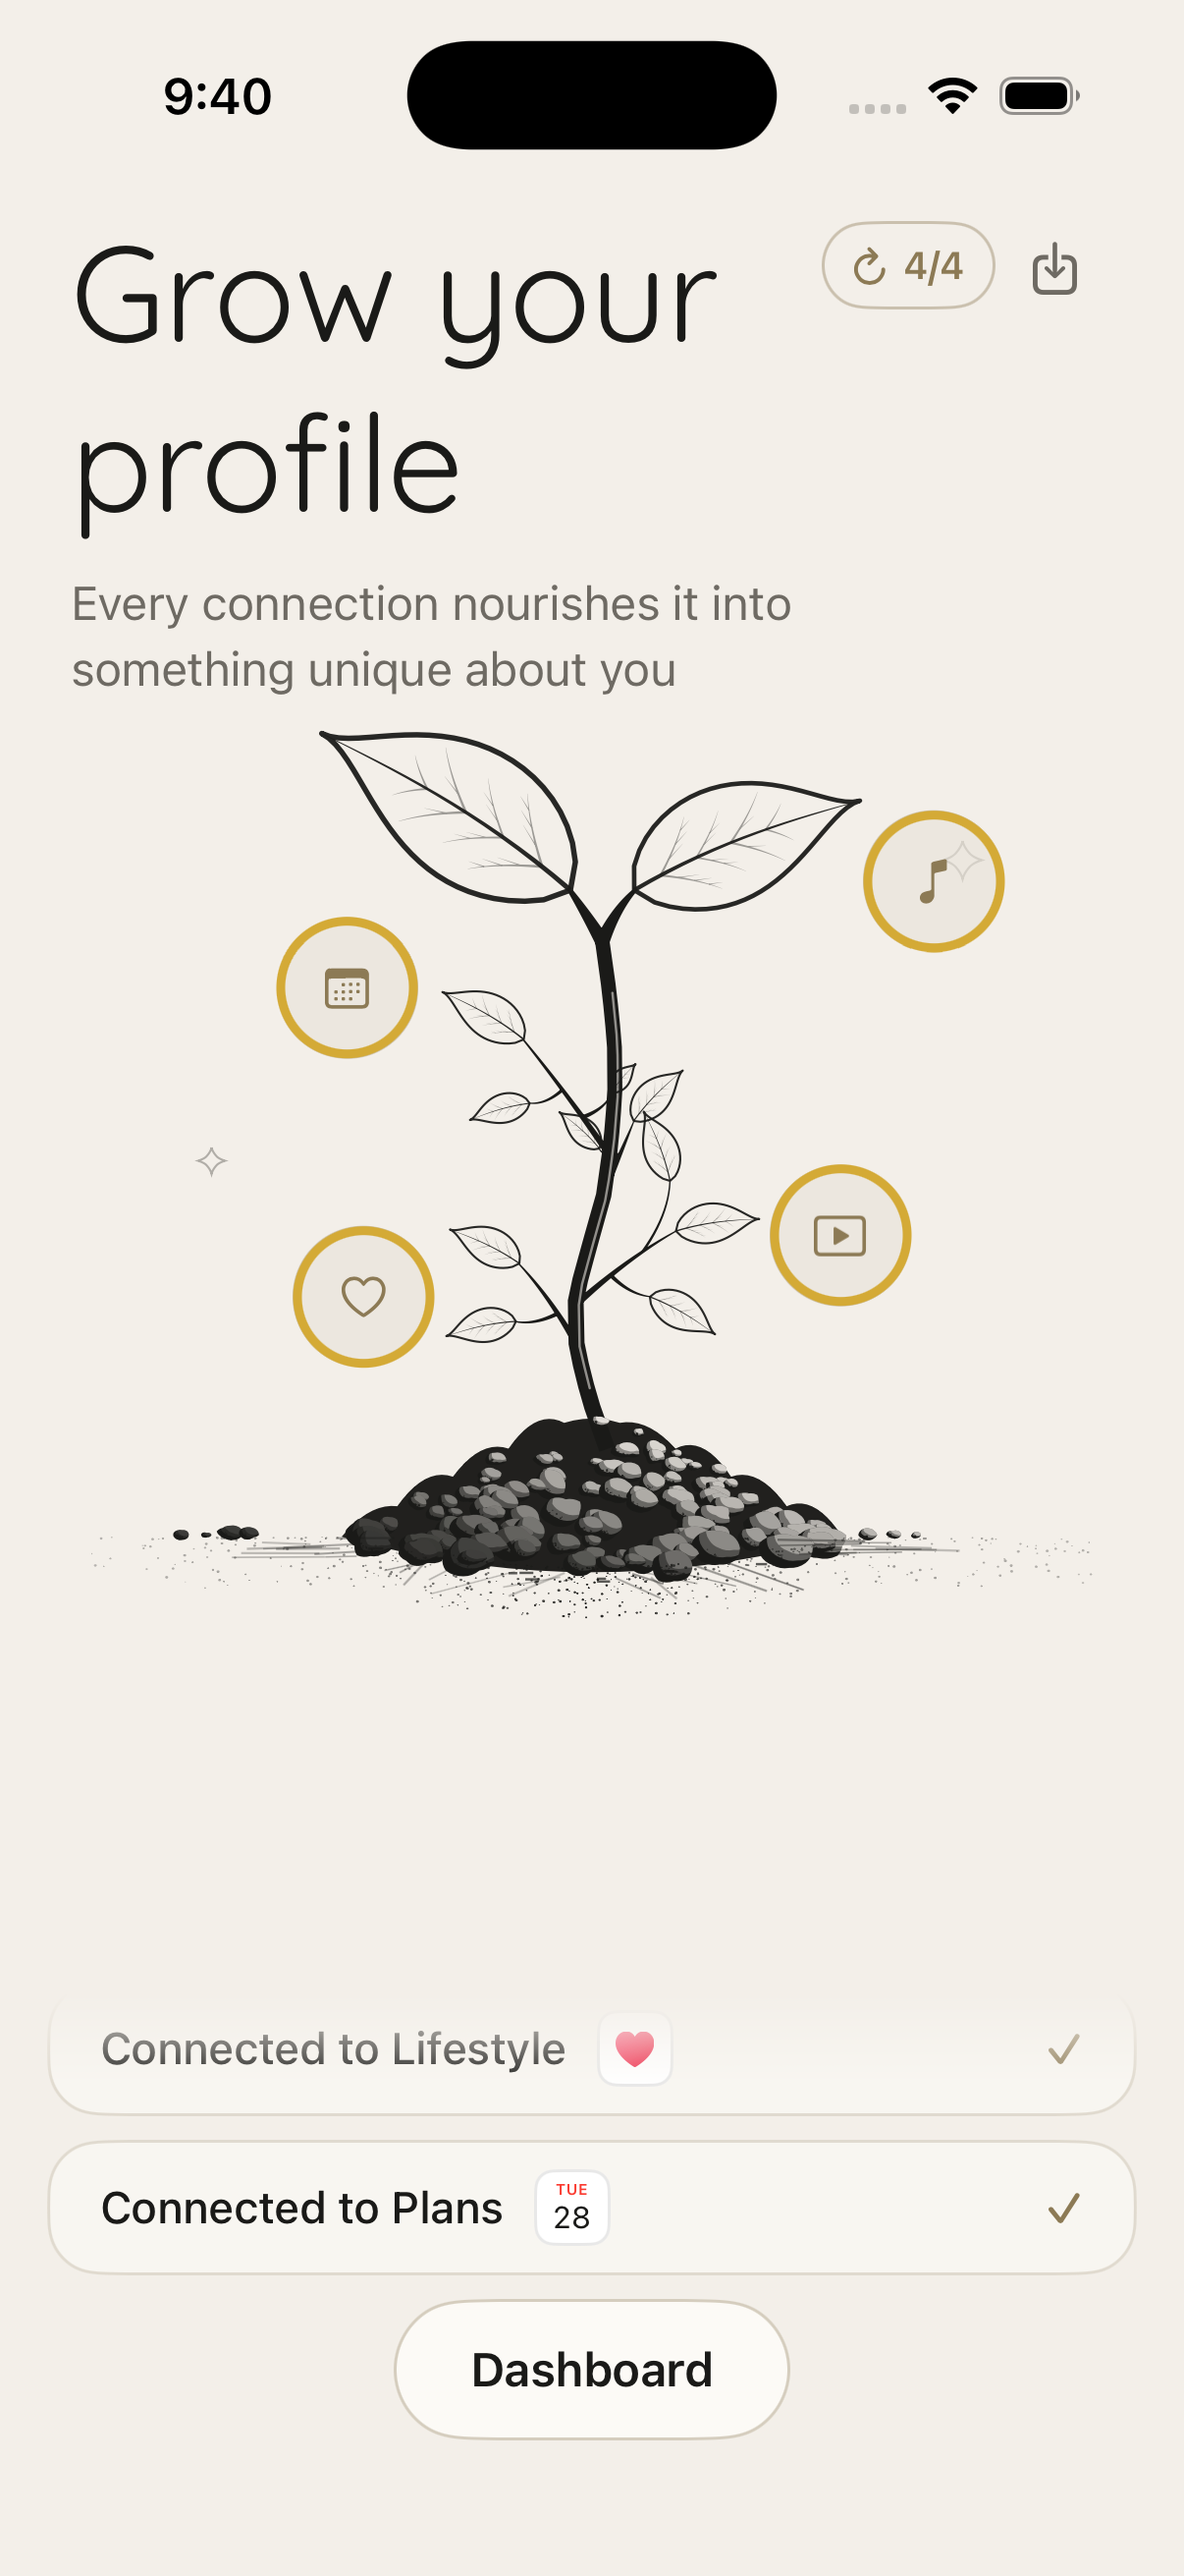
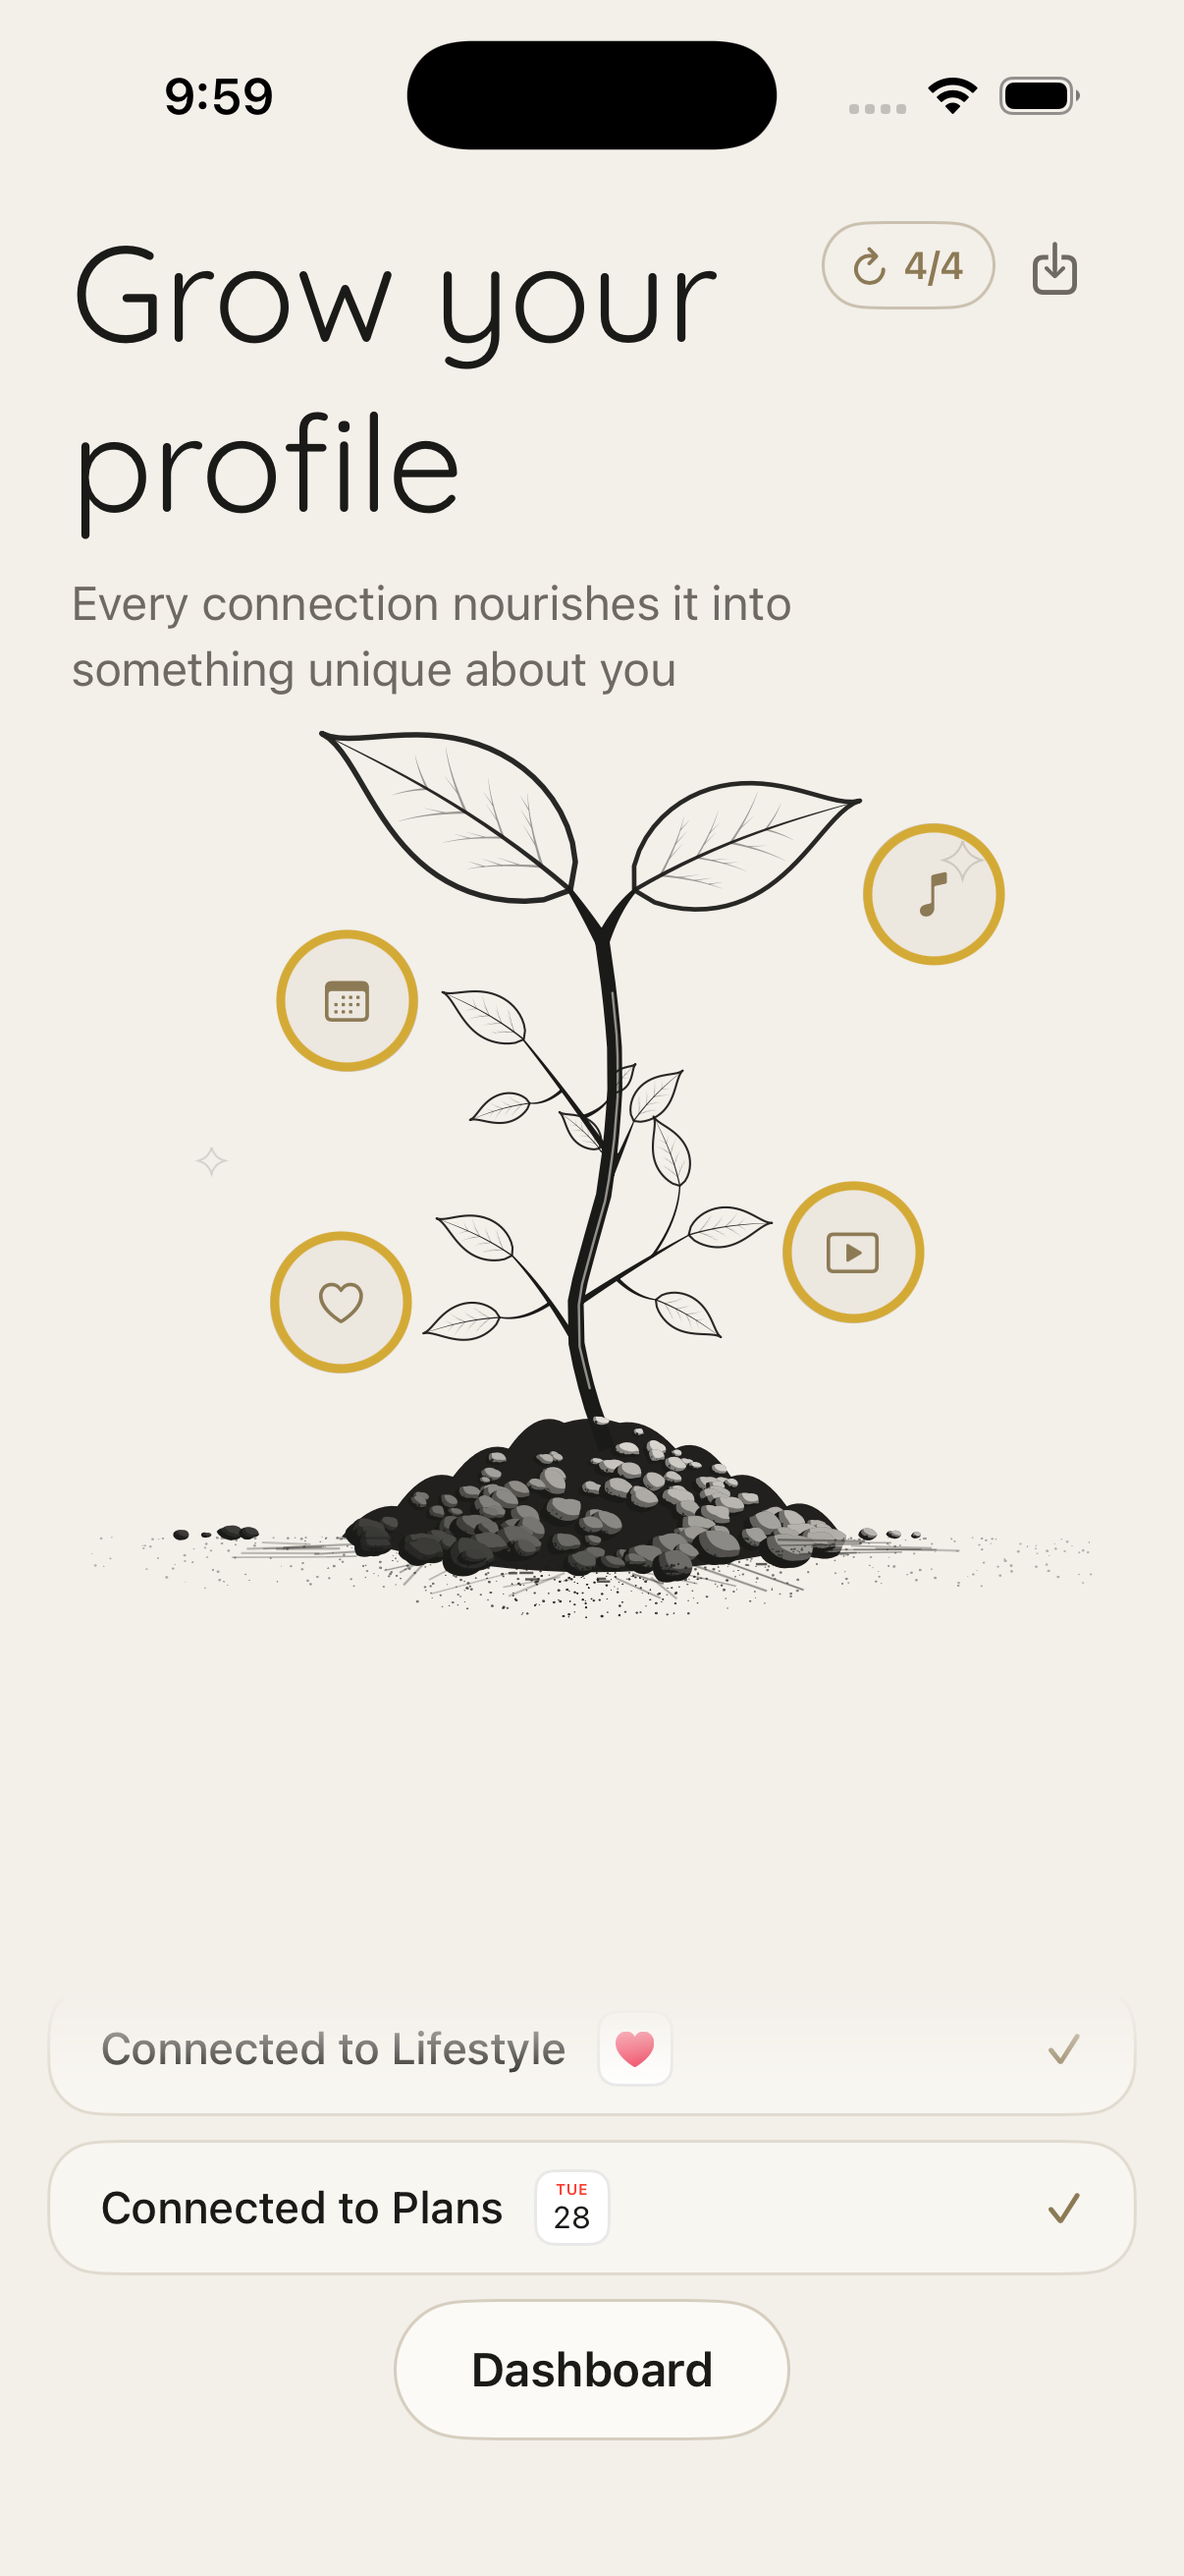
Give the canopy its own branches, and adjust L1 and R1
L1 and R1 are drawn from stages 2 and 1 and reused at the canopy, so
editing them edits those stages. Every canopy change so far has been
gated by hand instead — opensAt on a leaflet, a weight on the taper,
another on the lean — and two of those gates were missed, each found only
by diffing renders against a build from before the work began. These four
branches are going to be adjusted many times, so the canopy gets its own
copy of them and an adjustment can no longer reach an earlier stage even
by accident.

canopyShoots holds the same four in the same order with the same leaflet
counts, because SeedlingView keys its per-leaflet animation state off
indices into shoots — a different shape there would misalign silently
rather than fail. The set is eased in over the last stage rather than
swapped at a threshold, which would pop every branch the instant a fourth
source connected.

L1: the split now happens later along the rachis, 0.34 to 0.42, so the
bifurcation sits further from the stem. Its lower leaf grows 0.22 to 0.24
and its stalk runs further left and a touch down; the upper leaf grows
0.24 to 0.26 and is carried up and left by a longer rachis, since it is
terminal and sits at the tip.

R1: rachis 0.068 to 0.080 and nothing else. Lengthening it carries the
branch point and both leaves out together, which is what moving the whole
branch right means.

Stages 1, 2 and 3 differ by 2, 1 and 0 pixels of ink. Stage 1 and 2 are
[…]

diff --git a/Written/Views/Tree/SeedlingArt.swift b/Written/Views/Tree/SeedlingArt.swift
@@ -383,6 +383,24 @@ enum SeedlingArt {
         var closesAt: SeedlingStage? = nil
 
         var hasSubPetiole: Bool { stalkRun != .zero }
+
+        /// Part-way toward another leaflet. `mirrored` and the stage window are
+        /// taken from self — which side of the rachis a leaf is on, and whether
+        /// it is drawn at all, are not quantities to interpolate.
+        func blended(toward other: Leaflet, by t: CGFloat) -> Leaflet {
+            Leaflet(
+                mirrored: mirrored,
+                axis: axis + (other.axis - axis) * Double(t),
+                scale: scale + (other.scale - scale) * t,
+                along: along + (other.along - along) * t,
+                stalkRun: CGSize(
+                    width: stalkRun.width + (other.stalkRun.width - stalkRun.width) * t,
+                    height: stalkRun.height + (other.stalkRun.height - stalkRun.height) * t
+                ),
+                opensAt: opensAt,
+                closesAt: closesAt
+            )
+        }
     }
 
     /// A shoot off the side of the stem, and the stage it first appears at.
@@ -405,6 +423,27 @@ enum SeedlingArt {
         /// The leaflet the rachis runs into, so that stem, stalk and midrib are
         /// one line — the rachis' end tangent is aimed along this one's axis.
         var carrier: Leaflet { leaflets.first { !$0.hasSubPetiole } ?? leaflets[0] }
+
+        /// This shoot part-way toward another, for growing into the canopy's
+        /// version of itself instead of snapping to it.
+        ///
+        /// `stage` and `id` are taken from self: they say *when* a shoot exists
+        /// and which animation state belongs to it, and blending either would be
+        /// meaningless. `opensAt` and `closesAt` likewise — a leaflet is drawn
+        /// or it is not.
+        func blended(toward other: Shoot, by t: CGFloat) -> Shoot {
+            Shoot(
+                id: id,
+                stage: stage,
+                attachment: attachment + (other.attachment - attachment) * t,
+                reach: CGSize(
+                    width: reach.width + (other.reach.width - reach.width) * t,
+                    height: reach.height + (other.reach.height - reach.height) * t
+                ),
+                turn: turn + (other.turn - turn) * Double(t),
+                leaflets: zip(leaflets, other.leaflets).map { $0.blended(toward: $1, by: t) }
+            )
+        }
     }
 
     /// Degrees the spine sweeps toward its own side over the blade's length. A
@@ -562,10 +601,69 @@ enum SeedlingArt {
         )
     ]
 
+    /// The same four branches as the canopy draws them.
+    ///
+    /// A separate copy rather than canopy-only overrides on the shared ones, and
+    /// the reason is a track record: every canopy change so far has had to be
+    /// gated by hand — `opensAt` on a leaflet, a weight on the taper, another on
+    /// the lean — and two of those gates were missed, each found only by
+    /// diffing renders against a build from before the work began. These four
+    /// branches will be adjusted many times, and with a copy an adjustment
+    /// physically cannot reach stage 1, 2 or 3.
+    ///
+    /// **Same shape as `shoots`.** Same count, same leaflets per shoot, in the
+    /// same order — `SeedlingView` keys its per-leaflet animation state off
+    /// indices into `shoots`, so a different shape here would misalign them
+    /// rather than fail loudly.
+    static let canopyShoots: [Shoot] = [
+        // R1 — the right-hand branch, moved out from the stem. Only the rachis
+        // changes: lengthening it carries the branch point and both leaves out
+        // together, which is what "the whole branch further right" is.
+        Shoot(
+            id: 0,
+            stage: .shoot,
+            attachment: 0.52,
+            reach: CGSize(width: 0.080, height: 0.088),
+            turn: 18,
+            leaflets: shoots[0].leaflets
+        ),
+        // L1 — the left-hand lowest branch. Its split happens later along the
+        // rachis, and both leaves grow a little and move outward: the lower one
+        // left and down, the upper one up and left.
+        Shoot(
+            id: 1,
+            stage: .branch,
+            attachment: 0.34,
+            // Further left and a little higher, which carries the terminal leaf
+            // — the upper one — up and left with it, since it sits at the tip.
+            reach: CGSize(width: -0.058, height: 0.076),
+            turn: 0,
+            leaflets: [
+                Leaflet(mirrored: false, axis: -50, scale: 0.26, along: 1, stalkRun: .zero),
+                // `along` 0.34 to 0.42: further along the rachis is later, so
+                // the bifurcation happens further from the stem. The stalk runs
+                // further left and a touch further down.
+                Leaflet(mirrored: false, axis: -88, scale: 0.24, along: 0.42,
+                        stalkRun: CGSize(width: -0.046, height: 0.014))
+            ]
+        ),
+        shoots[2],
+        shoots[3]
+    ]
+
     /// The shoots grown by a given point in the climb — a shoot appears with
     /// the stage that grows it and stays for every stage after.
+    ///
+    /// Eased from the shared set into the canopy's over the last stage rather
+    /// than swapped at a threshold. Swapping would pop every branch the instant
+    /// the fourth source connected, mid-growth, which is the same defect as a
+    /// stem that jumps.
     static func shoots(by extended: CGFloat) -> [Shoot] {
-        shoots.filter { CGFloat($0.stage.rawValue) <= extended + 0.001 }
+        let canopy = min(max(extended - 3, 0), 1)
+        let set = canopy <= 0
+            ? shoots
+            : zip(shoots, canopyShoots).map { $0.blended(toward: $1, by: canopy) }
+        return set.filter { CGFloat($0.stage.rawValue) <= extended + 0.001 }
     }
 
     /// Degrees to turn a leaflet's blade box by, including the turn on the

diff --git a/Written/Views/Tree/SeedlingView.swift b/Written/Views/Tree/SeedlingView.swift
@@ -86,7 +86,11 @@ struct SeedlingView: View {
                 cotyledon(mirrored: false, in: size)
                 cotyledon(mirrored: true, in: size)
 
-                ForEach(SeedlingArt.shoots) { shoot in
+                // The set for this point in the climb, not the raw array: the
+                // canopy draws its own copy of the branches, eased in over the
+                // last stage. Ids and leaflet counts match either way, so the
+                // animation state indexed below stays aligned.
+                ForEach(SeedlingArt.shoots(by: extended)) { shoot in
                     ForEach(Array(shoot.leaflets.enumerated()), id: \.offset) { index, leaflet in
                         // Indices stay aligned with the animation state arrays,
                         // which are sized to the full list — so a leaflet that
